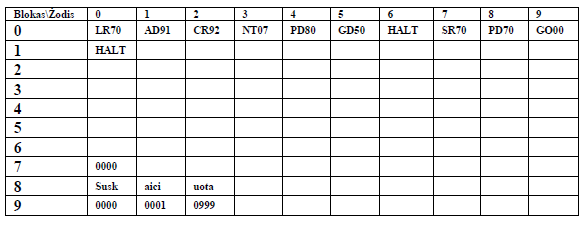
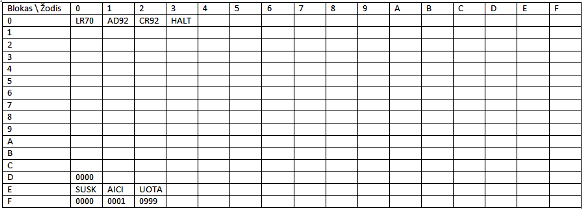
VM documentation update

Changed region(s): [[0.0, 0.0, 1.0, 1.0]]

diff --git a/Virtualios ir realios mašinos projektas/vm.tex b/Virtualios ir realios mašinos projektas/vm.tex
@@ -4,12 +4,14 @@
 
 Virtuali mašina – tai virtuali realios mašinos kopija. Virtuali reiškia netikra. Į virtualią mašiną surenkame reikalingas realios mašinos komponentes, tokias kaip procesorius, atmintis, įvedimo/išvedimo įrenginiai, suteikiame jiems paprastesnę nei reali vartotojo sąsaja ir visa tai pavadiname virtualia mašina.
 
+\includegraphics{VM.PNG}
+
 \subsection{Virtualios mašinos komponentų aprašymas}
 \begin{description}
 \item[Atmintis] \leavevmode 
 
-Virtualios mašinos (VM) atmintis sudaryta iš 16 žodžių po 4 baitus. 10 žodžių sudarys bloką. Kiekvienai VM skiriama po 10 blokų. Tuose dvidešimtyje blokų turi tilpti programa.
-Pirmuose trijuose blokuose bus saugomos programos komandos, o likusiuose septyniuose – programos darbui reikalingi duomenys.
+Virtualios mašinos (VM) atmintis sudaryta iš 16 žodžių po 4 baitus. 16 žodžių sudarys bloką. Kiekvienai VM skiriama po 16 blokų. Tuose šešiolikoje blokų turi tilpti programa.
+Pirmuose keturiuose blokuose bus saugomos programos komandos, o likusiuose dvylika – programos darbui reikalingi duomenys.
 Ryšiai tarp realaus ir virtualaus adreso bus nusakomi per puslapiavimo mechanizmą. Puslapiavimo lentelė bus saugoma paskutiniuose penkiuose atminties blokuose.
 
 
@@ -17,86 +19,57 @@ Ryšiai tarp realaus ir virtualaus adreso bus nusakomi per puslapiavimo mechaniz
 
 \item[Procesorius]  \leavevmode 
   
-VM procesorius turės vieną duomenų registrą, tris segmentų registrus, du nuorodų registrus bei du loginius registrus.
-\begin{enumerate}
-\item Duomenų registras:\leavevmode \\
-DR – Data Register – naudojamas duomenų (žodžių) pakrovimui į jį iš atminties ir iš jo į atmintį. Taip pat operacijose.
-\item Segmentų registrai:\leavevmode \\
-CS – Code Segment – rodyklė į kodo segmentą atmintyje.\\
-DS – Data Segment – rodyklė į duomenų segmentą atmintyje.\\
-ST – Stack Segment – rodyklė į steko segmentą atmintyje.
-\item Nuorodų registrai:\leavevmode \\
-PC – Program Counter – jame saugomas einamosios komandos žodžio indeksas.\\
-SP – jame saugomas steko viršūnės žodžio indeksas.
-\item Loginiai registrai:\leavevmode \\
-SF – Status Flag – pagal palyginimo operacijos rezultatą jis įgyja reikšmes:  \\ 0 – jei daugiau,\\ 1 – jei lygu, \\2 – jei mažiau.\\
-DF – Data Format – pagal iš atminties nuskaityto žodžio duomenų formatą jis įgyja reikšmes: \\0 – nuskaitytas žodis kaip simboliai,\\ 1 – nuskatytas žodis kaip sveikas skaičius su ženklu.
-\end{enumerate}  
+Virtualios mašinos procesoriaus paskirtis – vykdyti programą, kuri yra virtualioje atmintyje. Kiekvienas procesas turi savo virtualų centrinį procesorių, tačiau sisteminių procesų programas vykdo aukšto lygio kalbos procesorius. 
+Virtualaus procesoriaus registrai:
+\begin{itemize}
+\item R – 4 baitų bendro naudojimo registras;
+\item D – 4 baitų bendro naudojimo registras;
+\item IC – 2 baitų virtualios mašinos programos skaitiklis;
+\item C – 1 baito loginis trigeris.
+\end{itemize}
+Galimos reikšmės:
+\begin{itemize}
+\item `T' - TRUE;
+\item `F' – FALSE.
+\end{itemize}  
+  
 \item[Komandų sistema] \leavevmode 
 \begin{enumerate}
 \item Aritmetinės komandos: \leavevmode 
 \begin{itemize}
-\item ADD – sudeda du viršutinius steko elementus, sumažina steko rodyklę SP vienetu ir padeda rezultatą į steko viršūnę.\leavevmode 
-\\ST [SP – 1] = ST [SP – 1] + ST [SP]; \\SP--;\\
-\item SUB – atima steko viršūnėje esantį elementą iš antro nuo viršaus steko elemento, steko rodyklę SP sumažina vienetu bei rezultatą priskiria steko viršūnei.\leavevmode
-\\ST [SP – 1] = ST [SP – 1] – ST [SP] ; \\SP--;\\
-\item MUL – sudaugina du viršutinius steko elementus, sumažina steko rodyklę SP vienetu ir padeda rezultatą į steko viršūnę.\leavevmode
-\\ST [SP – 1] = ST [SP – 1] * ST [SP]; \\SP--;\\
-\item DIV – padalina antrą nuo viršaus steko elementą iš viršūnėje esančiojo, sumažina SP vienetu ir padeda rezultatą į steko viršūnę.\leavevmode
-\\ST [SP – 1] = ST [SP – 1] / ST [SP]; \\SP--;\\
-\item NEG – registre DR esantį žodį pakeičia jam priešingu.\leavevmode
-\\DR = 0 – DR;\\
+\item ADD – sudeda DR ir DP, kur DR ir DP – įvedami skaičiai arba komandos, įrašoma į DT
+\item SUB – iš DR atimama DP, įrašoma į DT
+\item MUL – sudaugina DR ir DP, įrašoma į DT
+\item DIV – padalina DR iš DP, įrašoma į DT
+\item PD x1x2 – išvedimo komanda
 \end{itemize}
-\item Logikos operacijų bitinės komandos:
+\item Palyginimo komandos:
 \begin{itemize}
-\item AND – atlieka dviejų viršutinių steko elementų konjunkciją, SP sumažina vienetu ir rezultatą priskiria steko viršūnei. \leavevmode
-\\ST [SP – 1] = ST [SP – 1]  \& ST [SP];\\ SP--;\\
-\item OR – atlieka dviejų viršutinių steko elementų disjunkciją, SP sumažina vienetu ir rezultatą priskiria steko viršūnei. \leavevmode
-\\ST [SP – 1] = ST [SP – 1] ¦ ST [SP];\\ SP--;\\
-\item NOT – atlieka registre DR esančio žodžio loginį neigimą (inversiją). \leavevmode
-\\DR = !(DR);\\
+\item CMP – ši komanda palygina registre DR ir DP išsaugoma į SF reikšmę: 0 – jei DR = DP,  1 – jei DR > DP, 2 –  DR < DP.
+\item JMP x1x2 - ši komanda pagal SF reikšmę „šoka“ į atminti su adresu 
 \end{itemize}
-\item Palyginimo komanda:
+\item  Darbo su duomenimis komandos:
 \begin{itemize}
-\item CMP – ši komanda palygina registre DR esantį žodį su steko viršūnėje esančiu žodžiu ir pagal palyginimo rezultatą formuoja registro SF reikšmę: \leavevmode
-\\0 – jei DR > ST [SP], 
-\\1 – jei DR = ST [SP],
-\\ 2 – jei DR < ST [SP].
-\end{itemize}
-\item Darbo su duomenimis komandos:
-\begin{itemize}
-\item LBxy – į registrą DR užkrauna žodį iš duomenų segmento nurodytu adresu 10*x + y bei formuoja DF = 0 požymį, reiškiantį, kad registre DR – simbolinė informacija.\\
-\item LWxy – į registrą DR užkrauna žodį iš duomenų segmento nurodytu adresu 10*x + y bei formuoja DF = 1 požymį, reškiantį, kad registre DR – sveikas skaičius su ženklu.\\
-\item SWxy – registre DR esantį žodį, nepriklausomai nuo to ar tai simbolinė, ar skaitinė informacija, dedame į duomenų segmentą nurodytu adresu 10*x + y.\\
-\end{itemize}
-\item Steko operacijos:
-\begin{itemize}
-\item PUSH – steko viršūnė SP padidinama vienetu ir į ja patalpinamas registre DR esantis žodis.\leavevmode
-\\SP = SP + 1; \\ST [SP] = DR;
-\item POP – steko viršūnėje esantis žodis talpinamas į registrą DR ir SP sumažinama vienemtu.\leavevmode
-\\DR = ST [SP];\\ SP--;
+\item LDx1x2 – į registrą DR užkrauna skaičių nurodytu adresu 16 * x1 + x2 bei formuoja DF = 0 požymį, reiškiantį, kad registre DR – simbolinė informacija. (x1 ir x2 iš šešioliktainės paversti į dešimtainę). 
+\item LWx1x2 – į registrą DR užkrauna žodį nurodytu adresu 16 * x1 + x2 bei formuoja DF = 1 požymį, reškiantį, kad registre DR – sveikas skaičius su ženklu.
+\item LSx1x2 – į atmintį įkelia žodį ar skaičių.
+\item LCx1x2 – iš realios atminties pasiima žodį ar skaičių ir įkelia į DR.
+\item LEx1x2 – į registrą DP užkrauna skaičių, adresu 16 * x1 + x2.
+\item LK x1x2 – nuskaito registrą DP
 \end{itemize}
 \item Valdymo komandos:
 \begin{itemize}
-\item JMxy – nesąlyginio valdymo perdavimo komanda. Ji reiškia, kad valdymas turi būti perduotas kodo segmento žodžiui, nurodytam adresu 10*x + y.\leavevmode
-\\PC = 10*x + y;
-\item JLxy – jeigu SF = 2, tai valdymas perduodamas nurodytu adresu 10*x + y.\leavevmode
-\\If (SF = 2)\\ PC = 10*x + y;
-\item JExy – jeigu SF = 1, tai valdymas perduodamas nurodytu adresu 10*x + y.\leavevmode
-\\If (SF = 1)\\PC = 10*x + y;
-\item HALT – programos sustojimo taško komanda.
+\item JMx1x2 – besąlyginio valdymo perdavimo komanda. Ji reiškia, kad valdymas turi būti perduotas kodo segmento žodžiui, nurodytam adresu 16 * x1 + x2.
+\item IC – komandos skaitliukas. IC = 16 * x1 + x2;
+\item HALT – programos sustojimo taško komanda, t.y. programos valdymo pabaiga.
 \end{itemize}
-\item Įvedimo/Išvedimo komandos:
-\begin{itemize}
-\item PDRB – registre DR esantį žodį traktuoja kaip keturis baitus, t.y. keturis simbolius ir juos išveda išvedimo įrenginį.\leavevmode
-\item PDRW – registre DR esantį žodį traktuoja kaip skaitinę informaciją ir išveda skaičių į išvedimo Įrenginį.\leavevmode
-\end{itemize}
- \end{enumerate}
-
+\end{enumerate}
 \end{description}   
    
 \subsection{Virtualios mašinos bendravimo su įvedimo/išvedimo įrenginiais
 mechanizmo aprašymas}
+
+
 
 \subsection{Virtualios mašinos interpretuojamojo vykdomojo failo išeities 
 teksto formatas}
@@ -121,6 +94,11 @@ DNI neigiamas sveikas skaičius (pvz. DNI -2)
 \subsection{Modeliuojamos virtualios mašinos loginių komponentų sąryšio su 
 realios mašinos techninės įrangos komponentais aprašymas}
 
+Sistemai aptikus pertraukimą, nutraukiamas vartotojo programos vykdymas, o valdymas perduodamas pertraukimo apdorojimo programai. Pastaroji programa, atlikusi darbą, valdymą grąžina operacinei sistemai pertraukimo vietoje.  Ką toliau daryti – sprendžia OS. Kiekvieno pertraukimą sukeliančio įvykio metu bus nustatomi atitinkami pertraukimų registrai: CH1, CH2, CH3, SI, PI, TIME priskiriamos atitinkamos reikšmės. 
+Į pertraukimą reaguojama tik vartotojo režime, supervizoriaus režime pertraukimai uždrausti. Vykdant programas vartotojo režimu virtualioje mašinoje, vykdomas komandos interpretavimo ciklas ir po to duodama supervizorinė komanda Test(x), kuri  nustato ar neįvyko pertraukimas. 
+Pertraukimui įvykus, išsaugoma virtualios mašinos būsena, procesorius perjungiamas į supervizoriaus režimą ir valdymas atiduodamas atitinkamo pertraukimo apdorojimo programai.
+Pertraukimo programos nustato pertraukimą sukėlusią priežastį ir išvalo pertraukimo registrą, kviesdama komanda Test su atitinkamu parametru. Po  to reaguojant į pertraukimą.
+Bendra taisyklė pertraukimų programų bendravimui su likusia sistemos dalimi tūrėtų būti tokia: duomenimis keičiamasi ne tiesiogiai, o per sutartus kintamuosius supervizorinėje atmintyje, kurių adresai yra iš anksto žinomi ir nesikeičia. Tai būtina, norint maksimaliai atriboti žemo lygio pertraukimų apdorojimo aparatūra nuo aukšto lygio operacinės sistemos.
    
 %Visi skaičiai yra su ženklu!
 
